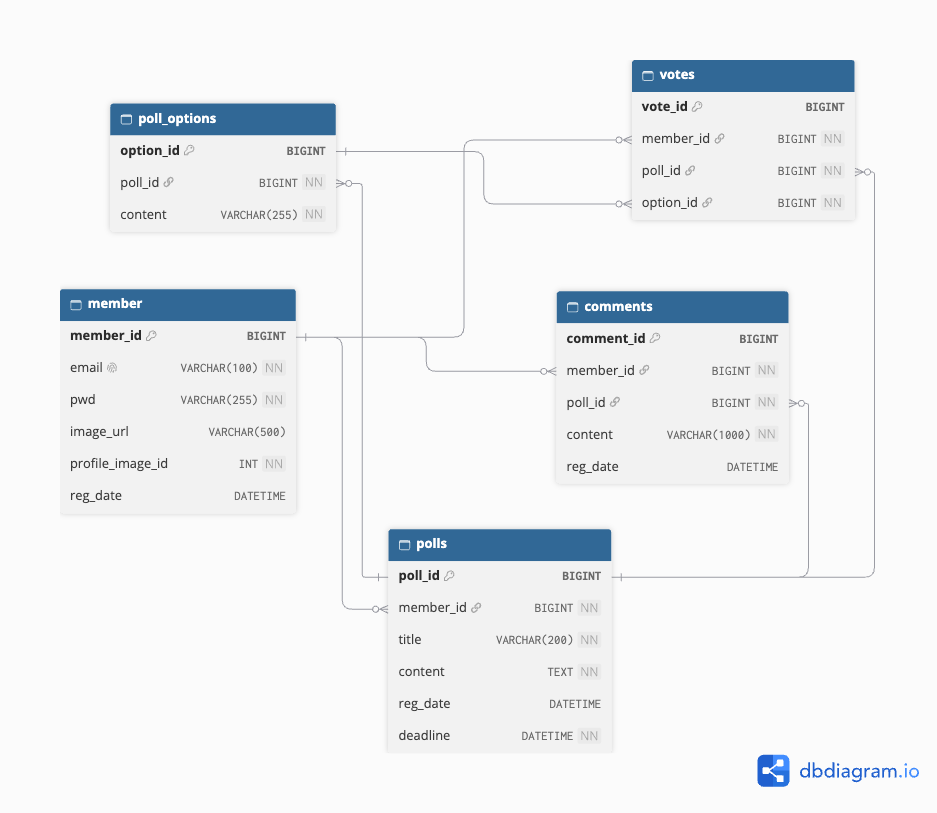
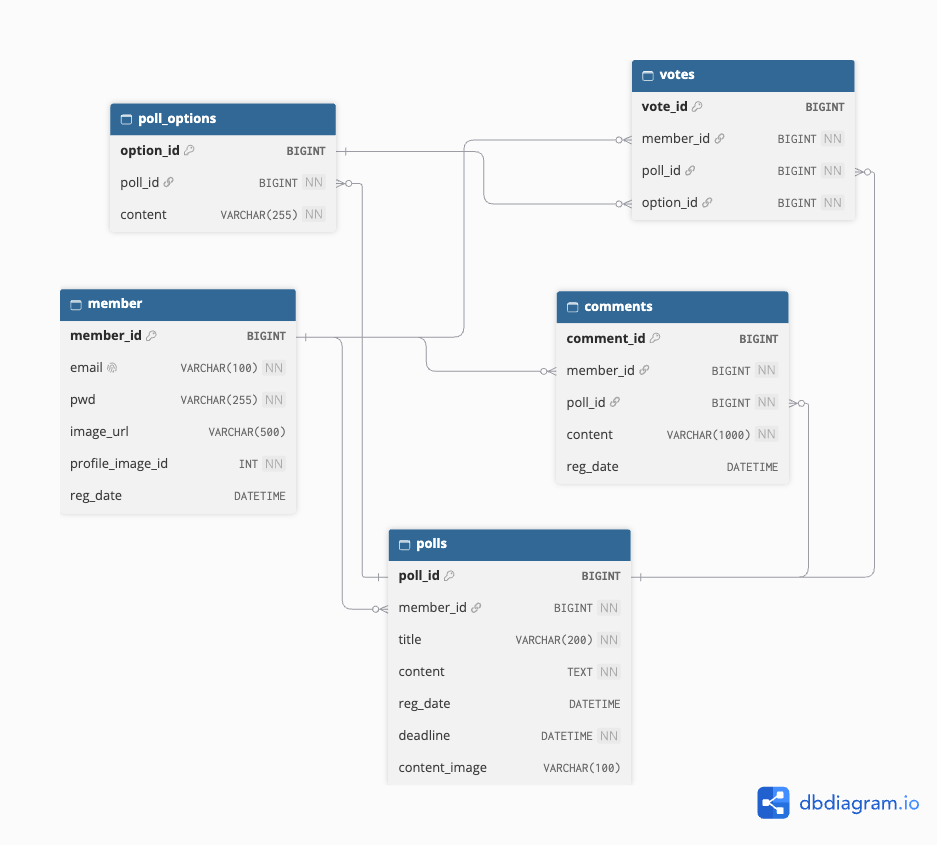
[ADD] 세션 인증을 JWT 인증으로 전환]

diff --git a/frontend/src/api/AxiosApi.jsx b/frontend/src/api/AxiosApi.jsx
@@ -1,25 +1,60 @@
 import axios from "axios";
 
-// Spring Boot 서버 주소
+// 기존 프론트 개발 서버의 프록시 설정 사용
 const HM_DOMAIN = "/";
 
-// 세션 쿠키를 포함하여 요청
 const api = axios.create({
   baseURL: HM_DOMAIN,
-  withCredentials: true,
 });
+
+// 요청을 보내기 전에 JWT 추가
+api.interceptors.request.use((config) => {
+  const token = localStorage.getItem("accessToken");
+
+  // 로그인·회원가입 등 인증 API에는 기존 토큰을 보내지 않음
+  const isAuthRequest = config.url?.startsWith("/api/auth/");
+
+  if (token && !isAuthRequest) {
+    config.headers.Authorization = `Bearer ${token}`;
+  }
+
+  return config;
+});
+
+// 인증된 요청이 401로 거절되면 로그인 정보 초기화
+api.interceptors.response.use(
+  (response) => response,
+  (error) => {
+    const isAuthRequest = error.config?.url?.startsWith("/api/auth/");
+
+    if (
+      error.response?.status === 401 &&
+      !isAuthRequest &&
+      localStorage.getItem("accessToken")
+    ) {
+      localStorage.removeItem("accessToken");
+      localStorage.removeItem("isLogin");
+      localStorage.removeItem("email");
+      localStorage.removeItem("profileId");
+
+      window.location.replace("/login");
+    }
+
+    return Promise.reject(error);
+  }
+);
 
 const AxiosApi = {
   // ====================================
-  // 로그인 API
+  // 회원 / 로그인 API
   // ====================================
 
-  // 회원가입여부확인(GET)
+  // 이메일 중복 확인
   memberExist: async (email) => {
-    return await api.get(`/api/auth/exists/${email}`);
+    return await api.get(`/api/auth/exists/${encodeURIComponent(email)}`);
   },
 
-  // 회원가입(POST)
+  // 회원가입
   memberSignup: async (email, pwd, profileId) => {
     return await api.post("/api/auth/signup", {
       email,
@@ -28,31 +63,29 @@ const AxiosApi = {
     });
   },
 
-  // 로그인(POST)
+  // 로그인
   memberLogin: async (email, pwd) => {
-    return await api.post("/api/auth/login", { email, pwd });
-  },
-
-  // 로그아웃(POST)
-  memberLogout: async () => {
-    return await api.post("/api/auth/logout");
+    return await api.post("/api/auth/login", {
+      email,
+      pwd,
+    });
   },
 
   // ====================================
   // 투표 게시글 API
   // ====================================
 
-  // 투표 목록 조회 (GET)
+  // 투표 목록 조회
   pollList: async () => {
     return await api.get("/api/votes");
   },
 
-  // 투표 상세 조회 (GET)
+  // 투표 상세 조회
   pollDetail: async (id) => {
     return await api.get(`/api/votes/${id}`);
   },
 
-  // 투표 등록 (POST)
+  // 투표 등록
   pollCreate: async (title, content, options, deadline, contentImage) => {
     return await api.post("/api/votes", {
       title,
@@ -63,19 +96,23 @@ const AxiosApi = {
     });
   },
 
-  // 투표 참여 (POST)
+  // ====================================
+  // 투표 참여 API
+  // ====================================
+
+  // 투표 참여
   voteCreate: async (id, optionId) => {
     return await api.post(`/api/votes/${id}/choices`, {
       optionId,
     });
   },
 
-  // 투표 결과 조회 (GET)
+  // 투표 결과 조회
   voteResult: async (pollId) => {
     return await api.get(`/api/votes/${pollId}/results`);
   },
 
-  // 투표 변경 (PUT)
+  // 투표 선택 변경
   voteUpdate: async (id, optionId) => {
     return await api.put(`/api/votes/${id}/choices`, {
       optionId,
@@ -83,15 +120,15 @@ const AxiosApi = {
   },
 
   // ====================================
-  // 투표 게시글 API
+  // 댓글 API
   // ====================================
 
-  // 댓글 목록 조회 (GET)
+  // 댓글 목록 조회
   commentList: async (pollId) => {
     return await api.get(`/api/votes/${pollId}/comments`);
   },
 
-  // 댓글 등록 (POST)
+  // 댓글 등록
   commentCreate: async (pollId, content) => {
     return await api.post(`/api/votes/${pollId}/comments`, {
       content,

diff --git a/frontend/src/components/common/Header.jsx b/frontend/src/components/common/Header.jsx
@@ -1,7 +1,7 @@
 import { Link, useLocation, useNavigate } from "react-router-dom";
 import styled from "styled-components";
-import AxiosApi from "../../api/AxiosApi";
 import ProfileIcon from "./ProfileIcon.jsx";
+import { useEffect } from "react";
 
 const HeaderContainer = styled.header`
   width: 100%;
@@ -65,24 +65,91 @@ const LogoutButton = styled.button`
 const Header = () => {
   const nav = useNavigate();
 
-  useLocation(); // 페이지 이동 시 Header 다시 렌더링
+  // 페이지 이동 시 변경된 로그인 정보를 반영
 
-  const isLogin = localStorage.getItem("isLogin") === "TRUE";
+  const location = useLocation();
 
-  const onLogout = async () => {
-    try {
-      await AxiosApi.memberLogout();
+  const isLogin =
+    localStorage.getItem("isLogin") === "TRUE" &&
+    Boolean(localStorage.getItem("accessToken"));
 
+  const onLogout = () => {
+    // JWT와 회원 정보 삭제
+    localStorage.removeItem("accessToken");
+    localStorage.removeItem("isLogin");
+    localStorage.removeItem("email");
+    localStorage.removeItem("profileId");
+
+    nav("/login", { replace: true });
+  };
+
+  useEffect(() => {
+    let timerId;
+
+    const clearLogin = () => {
+      localStorage.removeItem("accessToken");
       localStorage.removeItem("isLogin");
       localStorage.removeItem("email");
       localStorage.removeItem("profileId");
 
-      nav("/login", { replace: true });
-    } catch (error) {
-      console.error("로그아웃 오류", error);
-      alert("로그아웃 중 오류가 발생했습니다.");
-    }
-  };
+      window.location.replace("/login");
+    };
+
+    const checkExpiration = () => {
+      clearTimeout(timerId);
+
+      const token = localStorage.getItem("accessToken");
+
+      if (!token) {
+        return;
+      }
+
+      try {
+        // JWT 가운데 부분에서 만료 시각 읽기
+        const base64 = token
+          .split(".")[1]
+          .replace(/-/g, "+")
+          .replace(/_/g, "/");
+
+        const padded = base64.padEnd(Math.ceil(base64.length / 4) * 4, "=");
+
+        const payload = JSON.parse(atob(padded));
+
+        if (typeof payload.exp !== "number") {
+          clearLogin();
+          return;
+        }
+
+        // JWT의 exp는 초 단위이므로 밀리초로 변환
+        const remainingMs = payload.exp * 1000 - Date.now();
+
+        if (remainingMs <= 0) {
+          clearLogin();
+          return;
+        }
+
+        timerId = window.setTimeout(
+          checkExpiration,
+          Math.min(remainingMs, 2147483647)
+        );
+      } catch {
+        // 토큰 형식이 잘못된 경우에도 로그인 정보 삭제
+        clearLogin();
+      }
+    };
+
+    checkExpiration();
+
+    // 다른 탭이나 절전 상태에서 돌아왔을 때도 다시 확인
+    window.addEventListener("focus", checkExpiration);
+    document.addEventListener("visibilitychange", checkExpiration);
+
+    return () => {
+      clearTimeout(timerId);
+      window.removeEventListener("focus", checkExpiration);
+      document.removeEventListener("visibilitychange", checkExpiration);
+    };
+  }, [location.key]);
 
   return (
     <HeaderContainer>
@@ -95,7 +162,7 @@ const Header = () => {
         <RightMenu>
           {isLogin ? (
             <>
-              <ProfileIcon/>
+              <ProfileIcon />
               <span>|</span>
               <LogoutButton type="button" onClick={onLogout}>
                 로그아웃

diff --git a/frontend/src/pages/Login.jsx b/frontend/src/pages/Login.jsx
@@ -133,30 +133,48 @@ const SignUpLink = styled(Link)`
 const Login = () => {
   const [inputEmail, setInputEmail] = useState("");
   const [inputPwd, setInputPwd] = useState("");
+  const [isSubmitting, setIsSubmitting] = useState(false);
 
   const nav = useNavigate();
 
-  // 둘 다 입력돼야 버튼 활성화
   const isValid = inputEmail.trim() !== "" && inputPwd !== "";
 
-  // form의 onSubmit으로 처리하면 Enter 키로도 로그인 가능
   const onSubmit = async (e) => {
-    e.preventDefault(); // 페이지 새로고침 방지
+    e.preventDefault();
+
+    if (!isValid || isSubmitting) {
+      return;
+    }
+
+    setIsSubmitting(true);
 
     try {
-      const response = await AxiosApi.memberLogin(inputEmail, inputPwd);
+      const response = await AxiosApi.memberLogin(inputEmail.trim(), inputPwd);
 
-      if (response.data) {
-        localStorage.setItem("isLogin", "TRUE");
-        localStorage.setItem("email", inputEmail);
-        localStorage.setItem("profileId", response.data.profileId);
-        nav("/", { replace: true }); // 뒤로가기로 로그인 화면에 다시 오지 않도록
-      } else {
-        alert("이메일 또는 비밀번호가 틀립니다.");
+      const data = response.data;
+
+      if (!data?.accessToken) {
+        alert("로그인 응답에 토큰이 없습니다.");
+        return;
       }
-    } catch (errer) {
-      console.error("로그인 오류", errer);
-      alert("로그인 중 오류가 발생했습니다. 잠시 후 다시 시도해주세요.");
+
+      // JWT 및 회원 정보 저장
+      localStorage.setItem("accessToken", data.accessToken);
+      localStorage.setItem("isLogin", "TRUE");
+      localStorage.setItem("email", data.email);
+      localStorage.setItem("profileId", String(data.profileId));
+
+      nav("/", { replace: true });
+    } catch (error) {
+      console.error("로그인 오류", error);
+
+      if (error.response?.status === 401) {
+        alert("이메일 또는 비밀번호가 올바르지 않습니다.");
+      } else {
+        alert("로그인 중 오류가 발생했습니다. 잠시 후 다시 시도해주세요.");
+      }
+    } finally {
+      setIsSubmitting(false);
     }
   };
 
@@ -191,23 +209,31 @@ const Login = () => {
 
       <Form2 onSubmit={onSubmit}>
         <Title>로그인</Title>
-        <Label>이메일</Label>
+
+        <Label htmlFor="email">이메일</Label>
         <Input
+          id="email"
           type="email"
+          autoComplete="username"
           value={inputEmail}
           placeholder="이메일을 입력해주세요"
           onChange={(e) => setInputEmail(e.target.value)}
         />
-        <Label>비밀번호</Label>
+
+        <Label htmlFor="pwd">비밀번호</Label>
         <Input
+          id="pwd"
           type="password"
+          autoComplete="current-password"
           value={inputPwd}
           placeholder="비밀번호를 입력해주세요"
           onChange={(e) => setInputPwd(e.target.value)}
         />
-        <Button type="submit" enabled={isValid}>
-          로그인
+
+        <Button type="submit" enabled={isValid && !isSubmitting}>
+          {isSubmitting ? "로그인 중..." : "로그인"}
         </Button>
+
         <SignUpLink to="/signup">회원가입으로 이동</SignUpLink>
       </Form2>
     </Container>

diff --git a/frontend/src/pages/PollCreate.jsx b/frontend/src/pages/PollCreate.jsx
@@ -160,7 +160,7 @@ const PollCreate = () => {
             onChange={(e) => setContent(e.target.value)}
             placeholder="투표에 대한 설명을 입력해주세요."
           />
-          <ImageUpload onImageSelect={setContentImage}/>
+          <ImageUpload onImageSelect={setContentImage} />
         </Field>
 
         <OptionRow>
